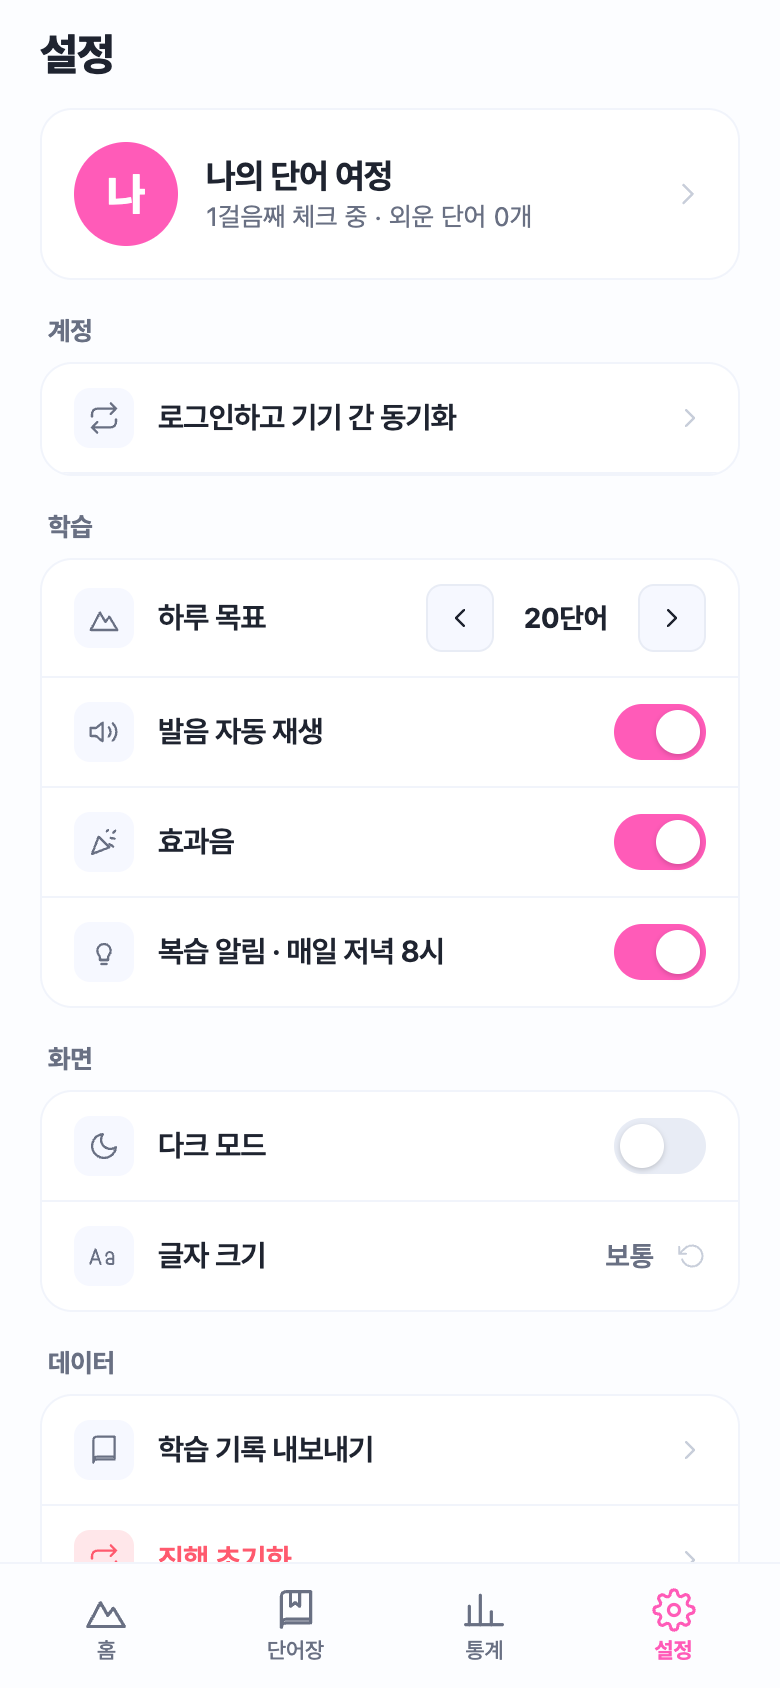
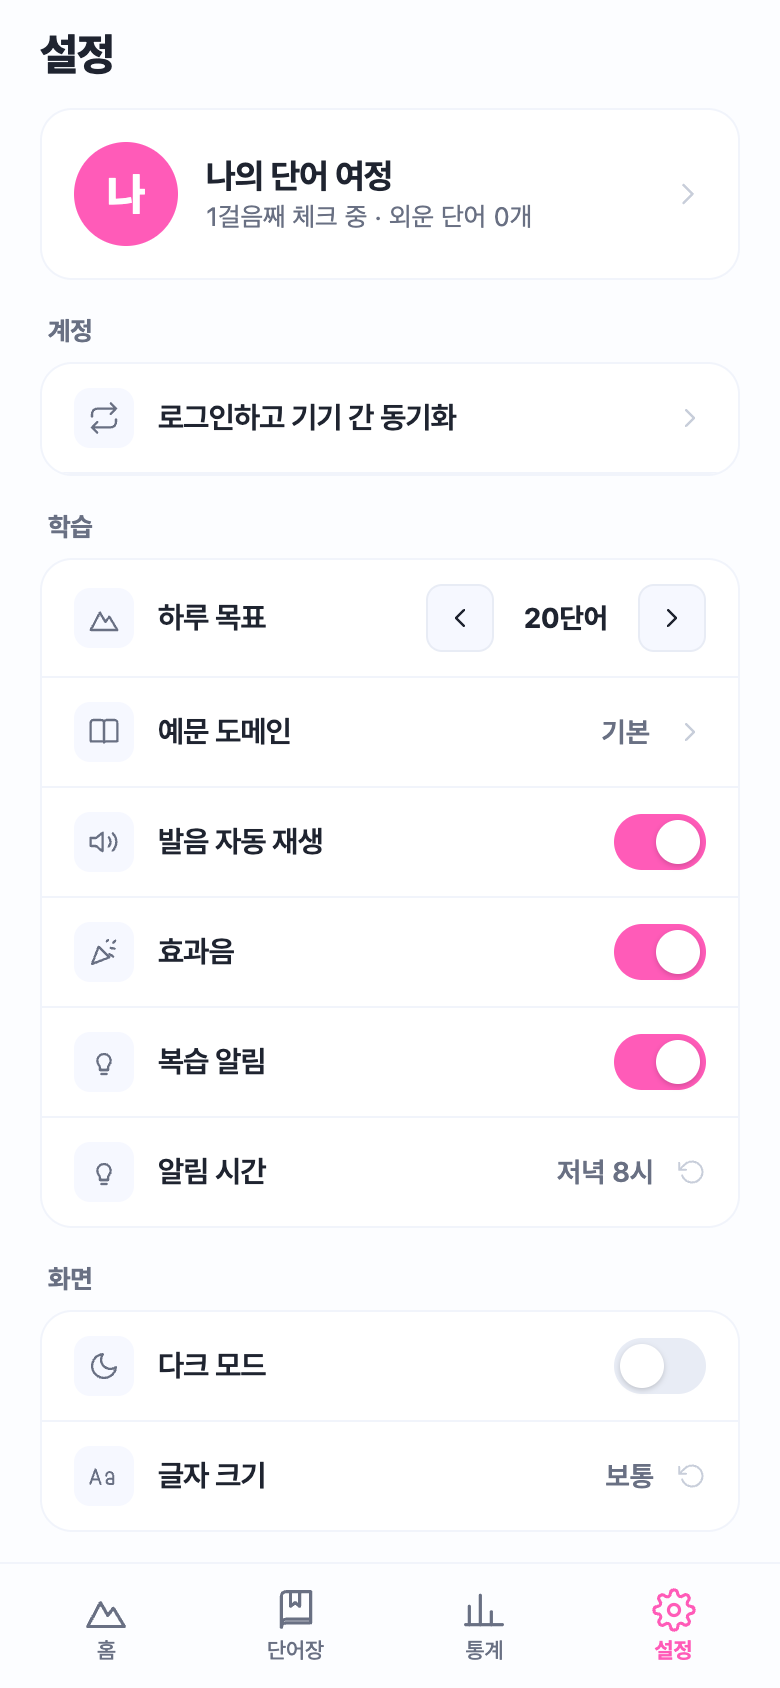
Refresh README screenshots to v2
- stats.png: new "다시 만나 이긴 단어" card (exposure-accuracy curve)
- settings.png: 예문 도메인 + 알림 시간 rows
- quiz-result.png (new grid cell): retry-round completion badge
- Captions updated to surface v2 features

diff --git a/README.md b/README.md
@@ -230,11 +230,13 @@ node vocapop-app/scripts/generate-domain-pack.js --domain dev --to 100
     <td align="center"><img src="docs/screenshots/worddetail.png" width="230" alt="단어 상세"/><br/><sub><b>단어 상세</b><br/>뜻 · 예문 · 학습 상태</sub></td>
   </tr>
   <tr>
-    <td align="center"><img src="docs/screenshots/stats.png" width="230" alt="통계"/><br/><sub><b>통계</b><br/>주간 학습 · 걸음 진척 · 정답률</sub></td>
-    <td align="center"><img src="docs/screenshots/settings.png" width="230" alt="설정"/><br/><sub><b>설정</b><br/>목표 · 알림 · 다크 모드 · 동기화</sub></td>
-    <td align="center"><sub>웹 미리보기 화면 캡처<br/>(안드로이드 빌드 시<br/>오버레이 · 잠금화면 기능 추가)</sub></td>
+    <td align="center"><img src="docs/screenshots/stats.png" width="230" alt="통계"/><br/><sub><b>통계</b><br/>다시 만나 이긴 단어 · 주간 학습 · 정답률</sub></td>
+    <td align="center"><img src="docs/screenshots/settings.png" width="230" alt="설정"/><br/><sub><b>설정</b><br/>예문 도메인 · 알림 시간 · 다크 모드</sub></td>
+    <td align="center"><img src="docs/screenshots/quiz-result.png" width="230" alt="퀴즈 결과 · 오답 재도전 완주"/><br/><sub><b>퀴즈 결과 (v2)</b><br/>오답 재도전 완주 배지</sub></td>
   </tr>
 </table>
+
+<sub>웹 미리보기 화면 캡처 — 안드로이드 빌드 시 오버레이 · 잠금화면 기능이 추가됩니다</sub>
 
 </div>
 